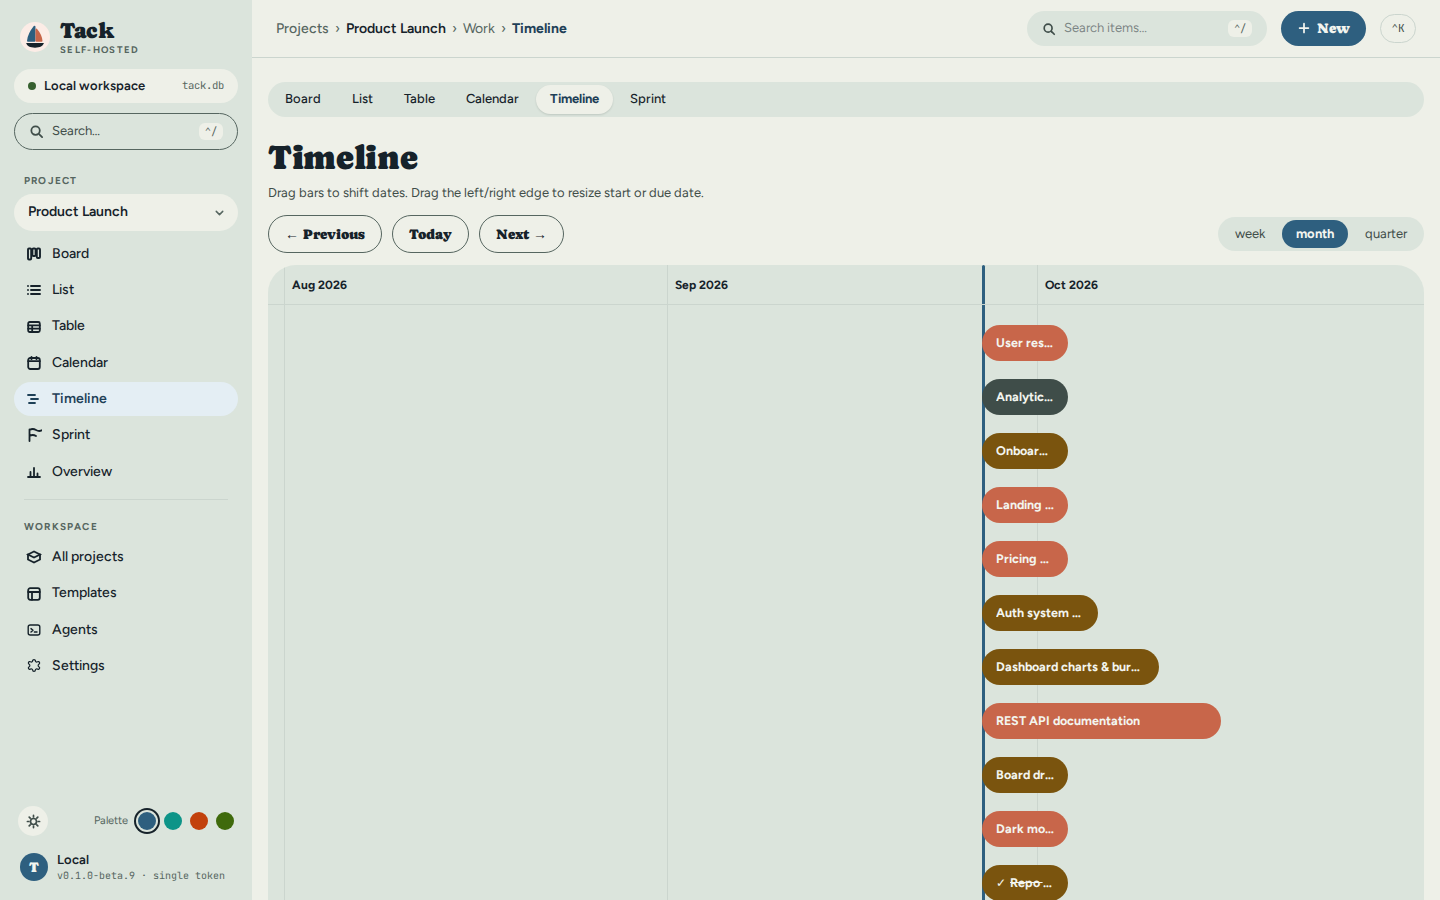
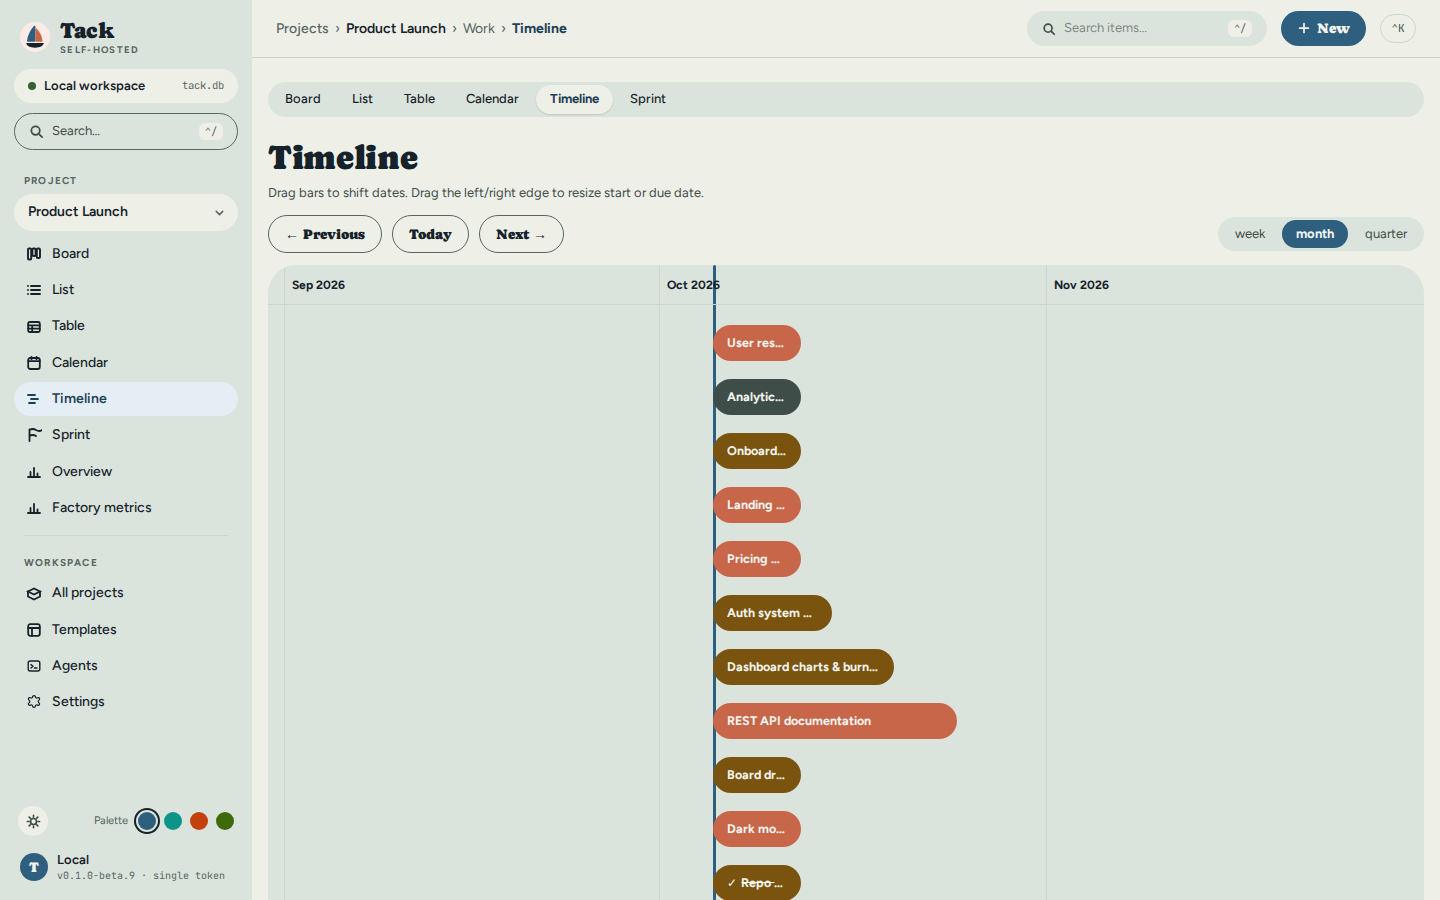
docs(screenshots): re-capture the product shots, and record the agent screens
Board, list, timeline, overview and vocabulary show the sidebar's
Factory metrics entry. Five new captures: the Run with agent dialog, an
item's brief, a decision with its options and recommendation, a
merge-readiness pack, and the Factory metrics page. make screenshots
records all ten; the agent screens come from a runner enrolled and driven
through the runner protocol, so no model is called.

diff --git a/frontend/e2e/screenshots.spec.ts b/frontend/e2e/screenshots.spec.ts
@@ -1,13 +1,18 @@
-import { test, expect } from '@playwright/test';
+import { test, expect, type APIRequestContext } from '@playwright/test';
 import path from 'path';
 import fs from 'fs';
+import { createHash } from 'crypto';
 import { fileURLToPath } from 'url';
-import { API, waitForApp } from './helpers';
+import { API, acceptAndStartAttempt, claimOnceWithLease, setProjectDefaultModel, waitForApp } from './helpers';
 
-// Screenshot capture for the README. Run with:
-//   npx playwright test screenshots --project=chromium --workers=1
-//
+// Screenshot capture for the README and the book. Run with `make screenshots`.
 // Outputs PNG files to docs/screenshots/ at repo root.
+//
+// The agent screens (run dialog, decision inbox, merge-readiness panel,
+// factory metrics) need a runner and attempts. No model is called: a runner
+// is enrolled and its attempts driven through the real runner protocol, as
+// the e2e suite does, so every panel renders from the production router.
+// The pack is the mrp-v1 contract's own `ready.json` fixture.
 
 const __dirname = path.dirname(fileURLToPath(import.meta.url));
 const OUT_DIR = path.join(__dirname, '../../docs/screenshots');
@@ -26,6 +31,221 @@ function daysFromNow(days: number): string {
   d.setUTCDate(d.getUTCDate() + days);
   d.setUTCHours(0, 0, 0, 0);
   return d.toISOString();
+}
+
+const MRP_PACK = path.join(__dirname, '../../docs/contracts/mrp-v1/fixtures/ready.json');
+
+const BRIEF = {
+  acceptance: [
+    { kind: 'manual', id: 'login_providers', title: 'Sign-in works with Google and GitHub', text: 'Both providers complete the OAuth2 round trip on staging.' },
+    { kind: 'test', id: 'session_tests', title: 'Session tests pass', name: 'cargo test -p auth session', runner: null },
+    { kind: 'command', id: 'build', title: 'The release build succeeds', run: 'cargo build --release', expect_exit: 0, cwd: null },
+    { kind: 'absent', id: 'no_plain_tokens', title: 'No tokens written to the log file', path: 'logs/tokens.txt' },
+  ],
+  constraints: [
+    { kind: 'forbidden_path', glob: 'migrations/**' },
+    { kind: 'max_changed_files', n: 15 },
+    { kind: 'note', text: 'Sessions stay server-side; no JWT in local storage.' },
+  ],
+  definition_of_done: 'A user signs in with either provider, stays signed in across restarts, and signs out everywhere from settings.',
+  risk: 'medium',
+};
+
+const RUNNER_MODEL = 'claude-sonnet-4-5';
+
+/** A runner whose config has a verifier and pushes branches, as
+ *  `tack-runner` reports them at enrollment. */
+async function enrollConfiguredRunner(request: APIRequestContext) {
+  const pending = await (await request.post(`${API}/runners/enrollment`, {
+    data: { name: 'build-box', total_capacity: 2, available_capacity: 2 },
+  })).json();
+  const now = new Date().toISOString();
+  const enrolled = await request.post(`${API}/runner/v1/enroll`, {
+    data: {
+      protocol_version: 1,
+      enrollment_token: pending.enrollment_token,
+      runner_name: 'build-box',
+      runner_version: '0.1.0',
+      capabilities: {
+        reported_at: now,
+        labels: {},
+        concurrency: { total: 2, available: 2 },
+        harnesses: [{
+          harness_kind: 'claude-code',
+          installed_version: '2.0.0',
+          probe_error: null,
+          probed_at: now,
+          model_combinations: [{ model_provider: 'anthropic', model_ids: [RUNNER_MODEL], discovery: 'reported' }],
+        }],
+        features: {},
+        limits: { event_payload_bytes_max: 65536, artifact_content_bytes_max: 52428800 },
+        verify_configured: true,
+        push_configured: true,
+      },
+    },
+  });
+  expect(enrolled.ok(), `enroll: ${enrolled.status()}`).toBeTruthy();
+  return { runnerId: pending.runner_id as string, credential: (await enrolled.json()).runner_credential as string };
+}
+
+/** Requests a run of `itemId` on the runner and drives it to `running`. */
+async function startRun(
+  request: APIRequestContext,
+  runner: { runnerId: string; credential: string },
+  itemId: string,
+  profileId: string,
+) {
+  const res = await request.post(`${API}/executions`, {
+    data: {
+      item_id: itemId,
+      idempotency_key: `screenshots-${itemId}`,
+      selector_kind: 'exact_runner',
+      selector_id: runner.runnerId,
+      agent_profile_id: profileId,
+      requested_harness_kind: 'claude-code',
+      requested_model_provider: 'anthropic',
+      requested_model_id: RUNNER_MODEL,
+      agent_profile_snapshot: { name: 'Implementer', instructions: 'Implement the item to its brief.', tool_policy: {}, timeout_seconds: 3600, budgets: {} },
+      repository_snapshot: { kind: 'git', remote: 'git@github.com:acme/launch.git', base_revision: 'main', subdirectory: null },
+      permission_policy: { tools: [], network: false },
+      budgets: {},
+      environment: {},
+      metadata: {},
+      timeout_seconds: 3600,
+      status_map_policy_id: null,
+    },
+  });
+  expect(res.ok(), `create execution: ${res.status()}`).toBeTruthy();
+  const lease = await claimOnceWithLease(request, runner.runnerId, runner.credential, `screenshots-claim-${itemId}`);
+  expect(lease, 'the runner claims the request it was named for').not.toBeNull();
+  await acceptAndStartAttempt(request, runner.runnerId, runner.credential, lease!.attemptId, lease!.fencingToken);
+  return lease!;
+}
+
+const seeded = {
+  briefItemTitle: 'Auth system — OAuth2 + session',
+  briefItemId: '',
+  decisionItemId: '',
+  mrpItemId: '',
+  mrpRequestId: '',
+};
+const itemIds: Record<string, string> = {};
+
+/** The brief, a pending decision with a recommendation, and a succeeded
+ *  attempt carrying a merge-readiness pack. */
+async function seedAgentWork(request: APIRequestContext, projectId: string) {
+  seeded.briefItemId = itemIds[seeded.briefItemTitle];
+  seeded.decisionItemId = itemIds['Dashboard charts & burndown'];
+  seeded.mrpItemId = itemIds['REST API documentation'];
+
+  const brief = await request.put(`${API}/items/${seeded.briefItemId}/brief`, { data: BRIEF });
+  expect(brief.ok(), `put brief: ${brief.status()}`).toBeTruthy();
+
+  const profile = await request.post(`${API}/agent-profiles`, {
+    data: { name: 'Implementer', instructions: 'Implement the item to its brief, then stop.', tool_policy: {} },
+  });
+  expect(profile.ok(), `create profile: ${profile.status()}`).toBeTruthy();
+  const profileId = (await profile.json()).agent_profile_id as string;
+  await setProjectDefaultModel(request, projectId, 'anthropic', RUNNER_MODEL);
+
+  const runner = await enrollConfiguredRunner(request);
+  const auth = { authorization: `Bearer ${runner.credential}` };
+
+  // A decision the agent raised and is waiting on.
+  const asking = await startRun(request, runner, seeded.decisionItemId, profileId);
+  const decision = await request.post(`${API}/runner/v1/attempts/${asking.attemptId}/decisions`, {
+    headers: auth,
+    data: {
+      protocol_version: 1,
+      runner_id: runner.runnerId,
+      attempt_id: asking.attemptId,
+      fencing_token: asking.fencingToken,
+      decision_id: 'chart-library',
+      kind: 'question',
+      prompt: 'The burndown needs a chart library. Which one should I add?',
+      options: [
+        { option_id: 'uplot', label: 'uPlot', description: 'Small canvas charts; covers line and area.', risks: ['No built-in tooltips; about 40 lines to add them.'], estimated_tokens: 18000 },
+        { option_id: 'echarts', label: 'Apache ECharts', description: 'Every chart type, themable.', risks: ['Adds about 330 KB gzipped to the bundle.'], estimated_tokens: 9000 },
+        { option_id: 'svg', label: 'Hand-written SVG', description: 'No dependency.', risks: ['Axis and resize handling are ours to maintain.'], estimated_tokens: 30000 },
+      ],
+      recommendation: {
+        option_id: 'uplot',
+        rationale: 'The dashboard only draws line and area charts, and the bundle budget has 60 KB left.',
+        evidence_refs: ['frontend/package.json', 'docs/perf-budget.md'],
+      },
+    },
+  });
+  expect(decision.ok(), `create decision: ${decision.status()}`).toBeTruthy();
+
+  // A finished attempt whose verifier produced a pack.
+  const done = await startRun(request, runner, seeded.mrpItemId, profileId);
+  seeded.mrpRequestId = done.requestId;
+  const pack = JSON.parse(fs.readFileSync(MRP_PACK, 'utf-8'));
+  pack.attempt_id = done.attemptId;
+  const bytes = Buffer.from(JSON.stringify(pack, null, 2));
+  const manifest = await request.post(`${API}/runner/v1/attempts/${done.attemptId}/artifacts`, {
+    headers: auth,
+    data: {
+      protocol_version: 1,
+      runner_id: runner.runnerId,
+      attempt_id: done.attemptId,
+      fencing_token: done.fencingToken,
+      artifacts: [{
+        artifact_id: 'mrp',
+        kind: 'mrp',
+        name: 'mrp.json',
+        media_type: 'application/vnd.tack.mrp+json',
+        size_bytes: bytes.length,
+        sha256: createHash('sha256').update(bytes).digest('hex'),
+        content_disposition: 'inline_upload',
+      }],
+    },
+  });
+  expect(manifest.ok(), `pack manifest: ${manifest.status()}`).toBeTruthy();
+  const upload = await request.put(`${API}/runner/v1/attempts/${done.attemptId}/artifacts/mrp/content`, {
+    headers: { ...auth, 'x-tack-fencing-token': String(done.fencingToken), 'content-type': 'application/vnd.tack.mrp+json' },
+    data: bytes,
+  });
+  expect(upload.ok(), `pack upload: ${upload.status()} ${await upload.text()}`).toBeTruthy();
+  const started = new Date(Date.now() - 6 * 60_000).toISOString();
+  const completion = await request.post(`${API}/runner/v1/attempts/${done.attemptId}/completion`, {
+    headers: auth,
+    data: {
+      protocol_version: 1,
+      runner_id: runner.runnerId,
+      attempt_id: done.attemptId,
+      fencing_token: done.fencingToken,
+      completion_id: 'screenshots-completion',
+      terminal_state: 'succeeded',
+      terminal_reason: { code: 'completed', message: 'Harness exited successfully' },
+      actual_execution: {
+        harness_kind: 'claude-code',
+        harness_version: '2.0.0',
+        model_provider: 'anthropic',
+        model_id: RUNNER_MODEL,
+        model_observation_source: 'harness_reported',
+        capability_snapshot: {
+          cancel: { support: 'supported', reason: null },
+          resume: { support: 'unsupported', reason: 'no resumable session contract' },
+          decisions: { support: 'supported', reason: null },
+          artifacts: { support: 'supported', reason: null },
+          usage: { support: 'advisory', reason: 'usage may be absent' },
+        },
+        workspace_id: `ws-${done.attemptId}`,
+        base_revision: '0'.repeat(40),
+        started_at: started,
+        ended_at: new Date().toISOString(),
+      },
+      usage: {
+        tokens_in: { value: 48210, source: 'measured' },
+        tokens_out: { value: 6120, source: 'measured' },
+        duration_ms: { value: 352000, source: 'measured' },
+        cost_usd: { value: null, source: 'not_measured' },
+      },
+      final_event_checkpoint: null,
+    },
+  });
+  expect(completion.ok(), `completion: ${completion.status()}`).toBeTruthy();
 }
 
 // Serial: all tests share the project seeded in beforeAll.
@@ -82,14 +302,16 @@ test.describe.serial('README screenshots', () => {
       });
       expect(r.ok(), `create "${item.title}": ${r.status()}`).toBeTruthy();
 
+      const created = await r.json();
+      itemIds[item.title] = created.id;
       if (targetStatus !== 'Backlog') {
-        const created = await r.json();
         const patch = await request.patch(`${API}/items/${created.id}`, {
           data: { status: targetStatus },
         });
         expect(patch.ok(), `move "${item.title}" → ${targetStatus}: ${patch.status()}`).toBeTruthy();
       }
     }
+    await seedAgentWork(request, projectId);
   });
 
   test('board', async ({ page }) => {
@@ -121,6 +343,73 @@ test.describe.serial('README screenshots', () => {
     await waitForApp(page);
     await page.waitForTimeout(800);
     await page.screenshot({ path: path.join(OUT_DIR, 'dashboard.png') });
+  });
+
+  test('brief', async ({ page }) => {
+    await page.setViewportSize({ width: 1440, height: 1300 });
+    await page.goto(`/projects/${projectId}/board?item=${seeded.briefItemId}`);
+    await waitForApp(page);
+    const drawer = page.getByRole('dialog');
+    await drawer.getByRole('tab', { name: 'Brief' }).click();
+    const first = drawer.getByRole('tabpanel').getByRole('textbox', { name: 'Title', exact: true }).first();
+    await expect(first).toHaveValue('Sign-in works with Google and GitHub');
+    await drawer.getByRole('tablist').scrollIntoViewIfNeeded();
+    await page.waitForTimeout(300);
+    await page.screenshot({ path: path.join(OUT_DIR, 'brief.png') });
+  });
+
+  test('run-with-agent', async ({ page }) => {
+    // Tall enough that the dialog (max 90vh) shows the whole flow unscrolled.
+    await page.setViewportSize({ width: 1440, height: 2000 });
+    await page.goto(`/projects/${projectId}/board`);
+    await waitForApp(page);
+    await page.getByRole('button', { name: `Run with agent: ${seeded.briefItemTitle}` }).click();
+    const dialog = page.getByRole('dialog', { name: /^Run with agent:/ });
+    await expect(dialog).toBeVisible();
+    await expect(dialog.getByText('Verify the result')).toBeVisible();
+    await page.waitForTimeout(400);
+    await dialog.screenshot({ path: path.join(OUT_DIR, 'run-with-agent.png') });
+  });
+
+  test('decision-inbox', async ({ page }) => {
+    await page.setViewportSize({ width: 1440, height: 1200 });
+    await page.goto(`/projects/${projectId}/board?item=${seeded.decisionItemId}`);
+    await waitForApp(page);
+    const drawer = page.getByRole('dialog');
+    await drawer.getByRole('tab', { name: 'Execution' }).click();
+    await drawer.getByRole('button', { name: 'Show events, decisions & artifacts' }).first().click();
+    const card = drawer.getByText('Recommended', { exact: true }).first();
+    await expect(card).toBeVisible({ timeout: 10_000 });
+    await card.scrollIntoViewIfNeeded();
+    await page.waitForTimeout(400);
+    await page.screenshot({ path: path.join(OUT_DIR, 'decision-inbox.png') });
+  });
+
+  test('merge-readiness', async ({ page }) => {
+    await page.setViewportSize({ width: 1440, height: 1400 });
+    await page.goto(`/projects/${projectId}/board?item=${seeded.mrpItemId}`);
+    await waitForApp(page);
+    const drawer = page.getByRole('dialog');
+    await drawer.getByRole('tab', { name: 'Execution' }).click();
+    await drawer.getByRole('button', { name: 'Show events, decisions & artifacts' }).first().click();
+    const heading = drawer.getByText(/^Recommendation:/).first();
+    await expect(heading).toBeVisible({ timeout: 10_000 });
+    await heading.scrollIntoViewIfNeeded();
+    await page.waitForTimeout(400);
+    await page.screenshot({ path: path.join(OUT_DIR, 'merge-readiness.png') });
+  });
+
+  test('factory-metrics', async ({ page, request }) => {
+    // The pack was opened in the previous capture; record its verdict.
+    const review = await request.post(`${API}/executions/${seeded.mrpRequestId}/attempts/1/mrp/review`, {
+      data: { verdict: 'accept', reason: 'Every criterion passed; the coverage report matches the diff.' },
+    });
+    expect(review.ok(), `review: ${review.status()}`).toBeTruthy();
+    await page.goto(`/projects/${projectId}/factory`);
+    await waitForApp(page);
+    await expect(page.getByRole('heading', { name: /factory metrics/i })).toBeVisible();
+    await page.waitForTimeout(600);
+    await page.screenshot({ path: path.join(OUT_DIR, 'factory-metrics.png') });
   });
 
   test('settings-vocabulary', async ({ page }) => {
